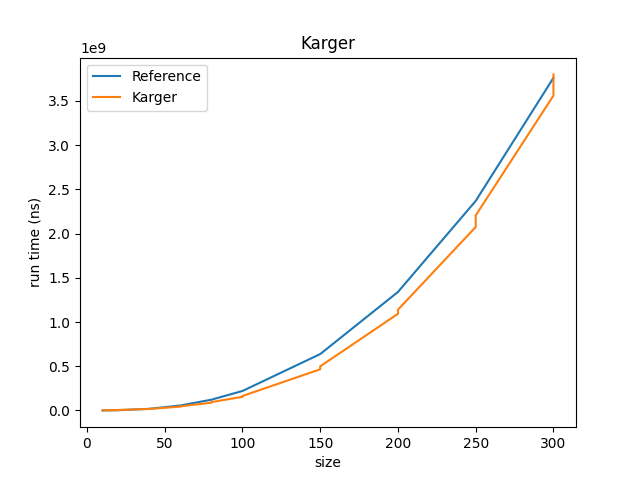
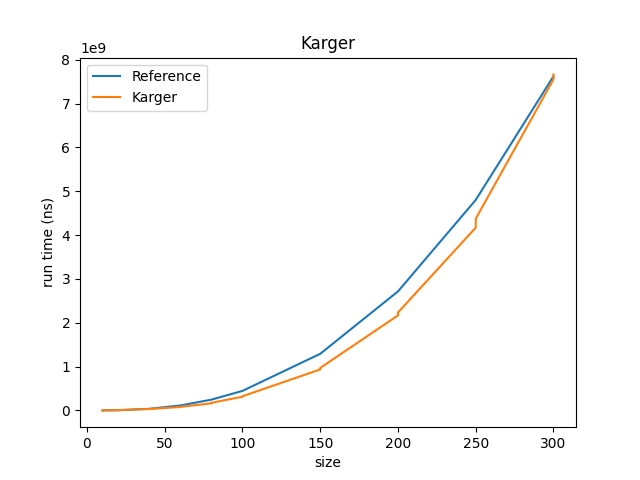
Fixed: The two recursive runs of Min-Cut are independent

diff --git a/Lab3/Karger_and_Stein.py b/Lab3/Karger_and_Stein.py
@@ -5,12 +5,11 @@ from data_structures.graph import Graph
 
 
 def Karger(G: Graph, k : int)-> float:
-    (D,W) = G.getD_W()
 
     minimumDistance = float("+Infinity")  # Useful for the comparison
     for _ in range(k):
-        G = copy.deepcopy((D,W))    # Passing a copy and not a reference  
-        t = Recursive_Contract(G)   # Passing a copy of the object G instead of its reference
+        # Passing a copy and not a reference  
+        t = Recursive_Contract(G.getD_W())   # Passing a copy of the object G instead of its reference
         if t < minimumDistance :
             minimumDistance = t
     return minimumDistance
@@ -18,6 +17,7 @@ def Karger(G: Graph, k : int)-> float:
 def Random_Select(C: List[float]):
 
         if C[-1] == 0: print("Error in",C)
+        
         r = np.random.randint(0, C[-1]-1) # Pick the last edge value
 
         edge_found_index = binarySearch(r, C)   # This is the edge founded, achived as just an index
@@ -80,15 +80,17 @@ def Contract_Edge(G: Tuple[List[float], np.matrix], u : int, v: int):
 
 
 def Contract(G:Tuple[List[float], np.matrix], k:int):
-    (D,W) = G
-    V = [n for n in D if n != 0]   # len(V) corresponds to the number of vertices remaning in D
+    (D_,W_) = G
+  
+
+    V = [n for n in D_ if n != 0]   # len(V) corresponds to the number of vertices remaning in D
 
     for _ in range(len(V) - k): # Strating form 1. Adding 1 to the upper range
 
-        (u,v) = Edge_Select((D,W))
-        Contract_Edge((D,W), u, v)
+        (u,v) = Edge_Select((D_,W_))
+        Contract_Edge((D_,W_), u, v)
 
-    return (D,W)
+    return (D_,W_)
 
 
 def Recursive_Contract(G:Graph):
@@ -109,14 +111,14 @@ def Recursive_Contract(G:Graph):
         return np.max(W_1)
 
     t = math.ceil((len(V)/math.sqrt(2))+1)
-    (D_i,W_i) = Contract(G, t)
     
-    output_1 = Recursive_Contract((D_i,W_i))
-
-    # Passing a deepcopy. copy.deepcopy() costs too much
-    output_2 = Recursive_Contract((D_i[:],np.matrix(W_i)))
-
-    return min(output_1, output_2)
+    outputs : List[float] = []
+    G_i = Contract(G, t)
+    for _ in range(2):
+        (D_i,W_i) = G_i
+        outputs.append(Recursive_Contract((D_i[:], W_i.copy())))
+    
+    return min(outputs)
 
 
 

diff --git a/Lab3/data_structures/graph.py b/Lab3/data_structures/graph.py
@@ -1,6 +1,7 @@
 # from typing import *
 from typing import List, Set, Tuple, Dict
 import numpy as np  # type:ignore
+import copy
 
 
 class Graph:
@@ -18,7 +19,7 @@ class Graph:
         return self.W
 
     def getD_W(self):
-        return self.D, self.W#(self.D[:], np.matrix(self.W))
+        return copy.deepcopy((self.D, self.W))
 
     #  get weight of a pair of nodes, required by stoer wagner
     #  node index start from 1 and not 0
@@ -30,7 +31,7 @@ class Graph:
 
     def set_D_W(self):
         # Builds the weights matrix and build the comulative weight list
-        n_nodes = len(self.getNodes())
+        n_nodes = self.dimension
         # Creating W
         W : np.matrix = np.zeros((n_nodes + 1, n_nodes + 1))    # Strarting from 0 
         for edge in self.getEdges().items():

diff --git a/Lab3/main.py b/Lab3/main.py
@@ -27,7 +27,7 @@ def measureTime(Graphs, Function, Weights, Time):
 
             start_time = perf_counter_ns()
 
-            Result = Function(graph, 1)  # Function call FIXME setting k
+            Result = Function(graph, 5)  # Function call FIXME setting k
 
             end_time = perf_counter_ns()
 
